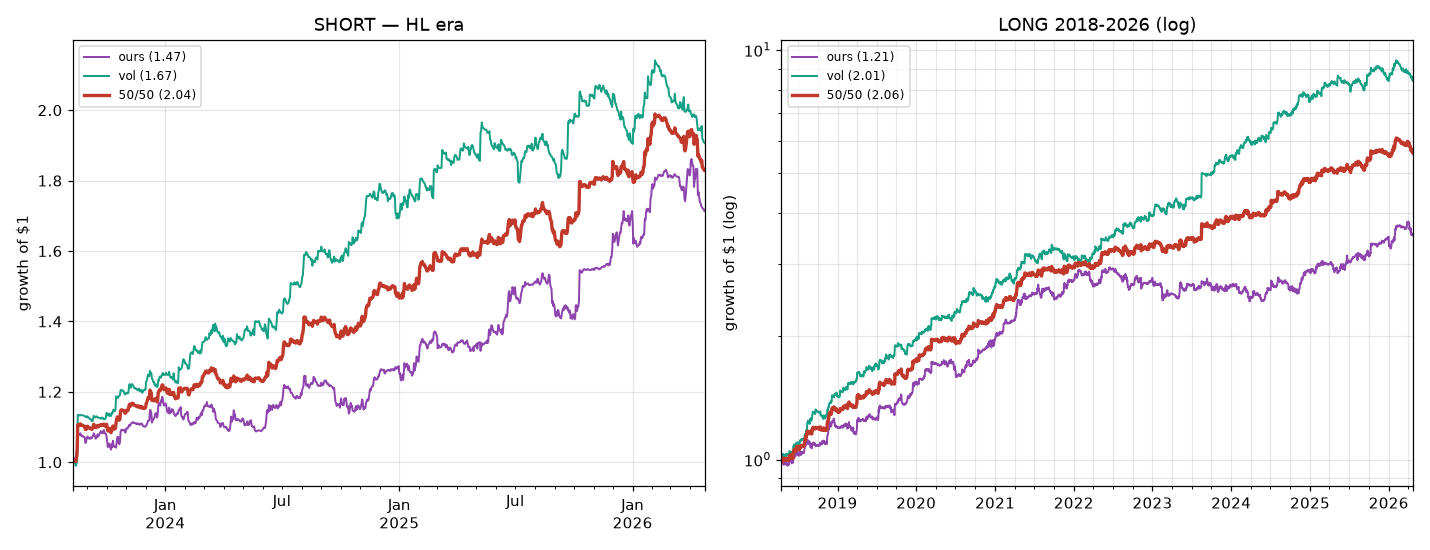
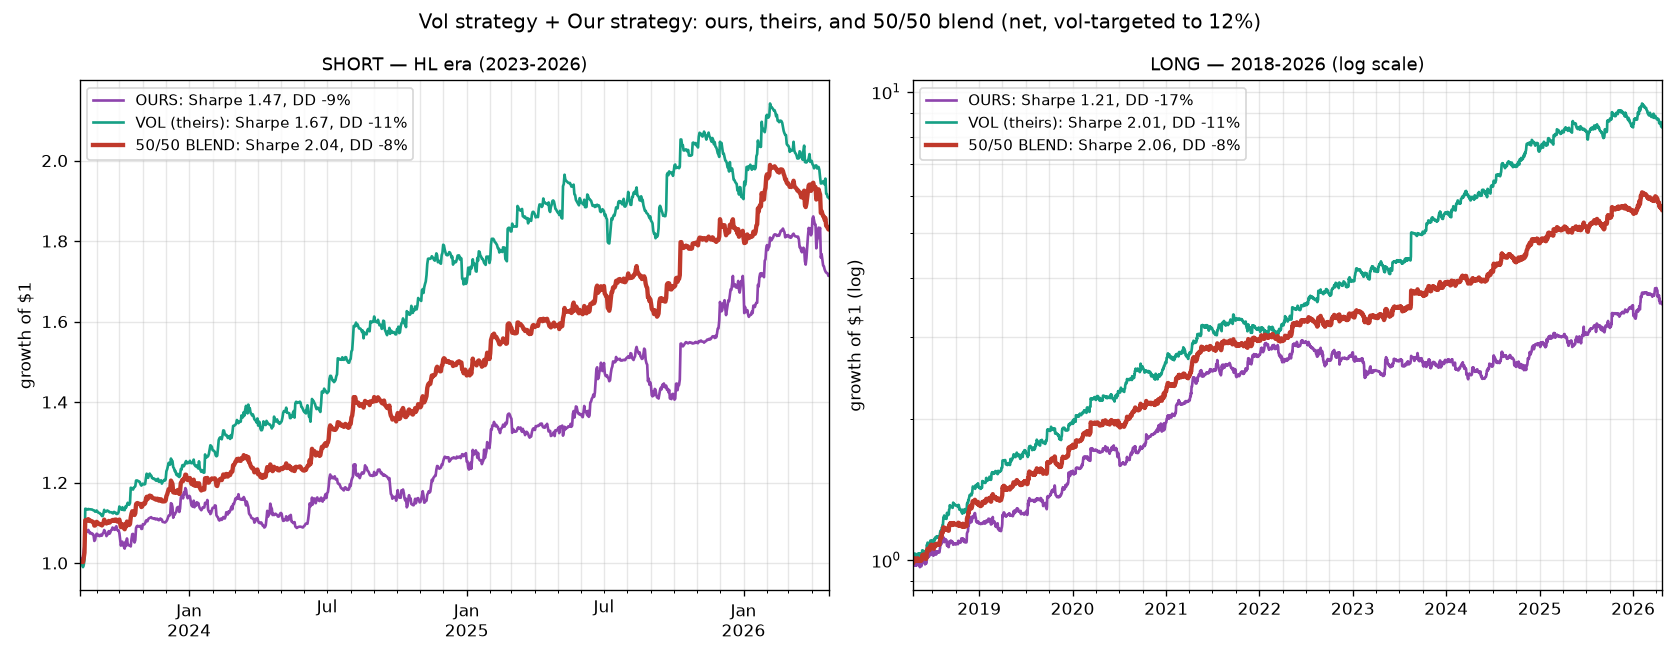
Clearer blend equity curves: ours/theirs/50-50, short & long, with Sharpe+DD labels
Claude-Session: https://claude.ai/code/session_017BV3qJcVT8Wp5LTdUv67gV

Changed region(s): [[0.0, 0.0, 1.0, 0.9891]]

diff --git a/crypto_pulse/vol_blend.py b/crypto_pulse/vol_blend.py
@@ -145,17 +145,29 @@ def main():
                  "is still ~1.9 (sensitivity table). Net: the blend is a genuine "
                  "improvement on both Sharpe and drawdown — the strongest case yet.\n")
 
-    # plot: short and long blends (face value) vs each leg
-    fig, ax = plt.subplots(1, 2, figsize=(13, 5))
-    (1 + sB["ours"].fillna(0)).cumprod().plot(ax=ax[0], color="#8e44ad", lw=1.3, label=f"ours ({sharpe(sB['ours']):.2f})")
-    (1 + sB["vol"].fillna(0)).cumprod().plot(ax=ax[0], color="#16a085", lw=1.3, label=f"vol ({sharpe(sB['vol']):.2f})")
-    (1 + short_blend.fillna(0)).cumprod().plot(ax=ax[0], color="#c0392b", lw=2.2, label=f"50/50 ({stats(short_blend)['sharpe']:.2f})")
-    ax[0].set_title("SHORT — HL era"); ax[0].legend(fontsize=8); ax[0].grid(alpha=0.3); ax[0].set_ylabel("growth of $1")
-    (1 + lB["ours"].fillna(0)).cumprod().plot(ax=ax[1], color="#8e44ad", lw=1.3, logy=True, label=f"ours ({sharpe(lB['ours']):.2f})")
-    (1 + lB["vol"].fillna(0)).cumprod().plot(ax=ax[1], color="#16a085", lw=1.3, logy=True, label=f"vol ({sharpe(lB['vol']):.2f})")
-    (1 + long_blend.fillna(0)).cumprod().plot(ax=ax[1], color="#c0392b", lw=2.2, logy=True, label=f"50/50 ({stats(long_blend)['sharpe']:.2f})")
-    ax[1].set_title("LONG 2018-2026 (log)"); ax[1].legend(fontsize=8); ax[1].grid(alpha=0.3, which="both"); ax[1].set_ylabel("growth of $1 (log)")
-    fig.tight_layout(); fig.savefig(os.path.join(HERE, "vol_blend.png"), dpi=110)
+    # plot: ours / theirs / blended, short & long
+    OUR, VOL, BL = "#8e44ad", "#16a085", "#c0392b"
+    fig, ax = plt.subplots(1, 2, figsize=(14, 5.5))
+
+    def panel(a, d, blend, title, logy):
+        for col, color, lw, nm in [("ours", OUR, 1.6, "OURS"),
+                                    ("vol", VOL, 1.6, "VOL (theirs)")]:
+            s = stats(d[col])
+            (1 + d[col].fillna(0)).cumprod().plot(ax=a, color=color, lw=lw, logy=logy,
+                label=f"{nm}: Sharpe {s['sharpe']:.2f}, DD {s['maxdd']:.0%}")
+        sb = stats(blend)
+        (1 + blend.fillna(0)).cumprod().plot(ax=a, color=BL, lw=2.6, logy=logy,
+            label=f"50/50 BLEND: Sharpe {sb['sharpe']:.2f}, DD {sb['maxdd']:.0%}")
+        a.set_title(title, fontsize=11)
+        a.legend(fontsize=9, loc="upper left")
+        a.grid(alpha=0.3, which="both")
+        a.set_ylabel("growth of $1" + (" (log)" if logy else ""))
+
+    panel(ax[0], sB, short_blend, "SHORT — HL era (2023-2026)", False)
+    panel(ax[1], lB, long_blend, "LONG — 2018-2026 (log scale)", True)
+    fig.suptitle("Vol strategy + Our strategy: ours, theirs, and 50/50 blend "
+                 "(net, vol-targeted to 12%)", fontsize=12)
+    fig.tight_layout(); fig.savefig(os.path.join(HERE, "vol_blend.png"), dpi=120)
 
     out = "\n".join(lines)
     with open(os.path.join(HERE, "vol_blend.md"), "w") as fh: